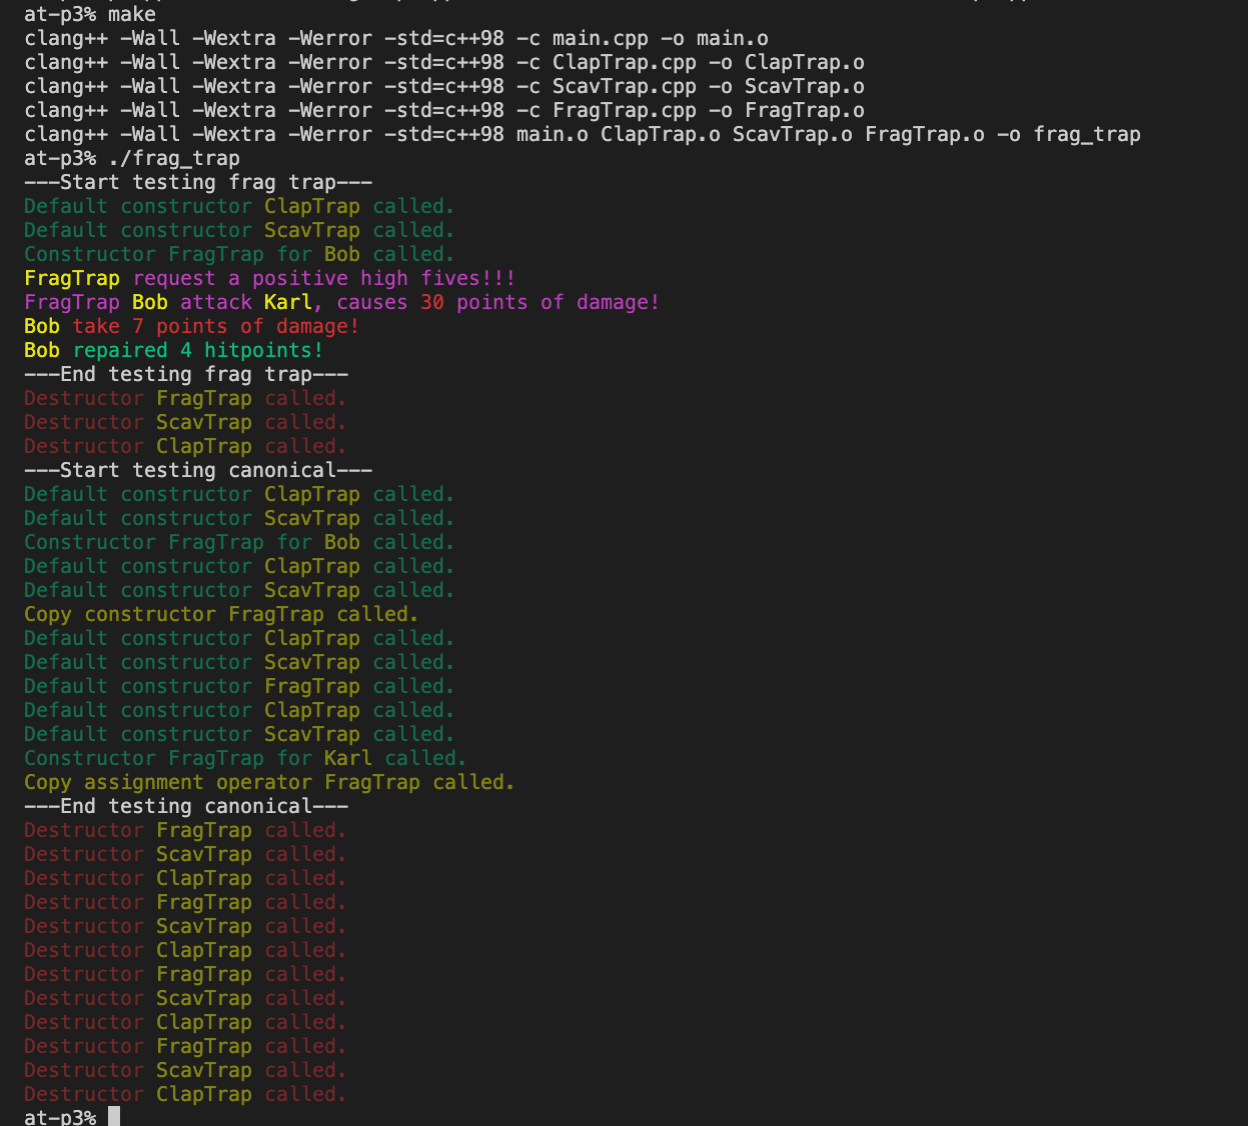
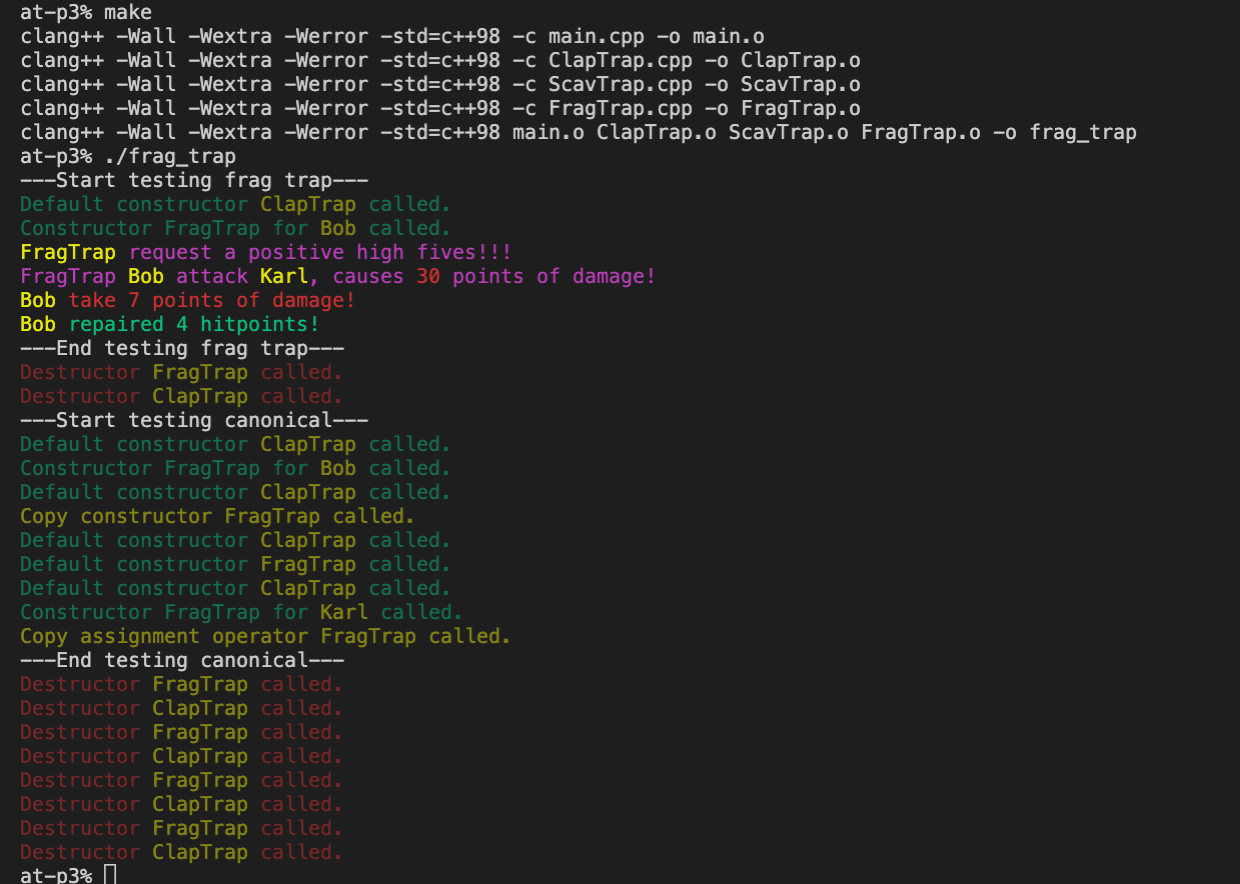
Fix

Changed region(s): [[0.0, 0.0, 0.9194, 1.0]]

diff --git a/Module_03/ex03/ClapTrap.cpp b/Module_03/ex03/ClapTrap.cpp
@@ -1,0 +1,119 @@
+#include "ClapTrap.hpp"
+
+void ClapTrap::setName(const std::string &name)
+{
+	ClapTrap::name_ = name;
+}
+
+void ClapTrap::setHp(int hp)
+{
+	ClapTrap::hp_ = hp;
+}
+
+void ClapTrap::setMp(int mp)
+{
+	ClapTrap::mp_ = mp;
+}
+
+void ClapTrap::setDamage(int damage)
+{
+	ClapTrap::damage_ = damage;
+}
+
+const std::string &ClapTrap::getName() const
+{
+	return name_;
+}
+
+int ClapTrap::getHp() const
+{
+	return hp_;
+}
+
+int ClapTrap::getMp() const
+{
+	return mp_;
+}
+
+int ClapTrap::getDamage() const
+{
+	return damage_;
+}
+
+ClapTrap::ClapTrap() : name_("No_name"), hp_(10), mp_(10), damage_(0)
+{
+	std::cout << DARK_GREEN "Default constructor " END_COLOR;
+	std::cout << DARK_YELLOW "ClapTrap " END_COLOR;
+	std::cout << DARK_GREEN "called." END_COLOR << std::endl;
+}
+
+ClapTrap::ClapTrap(std::string name) : name_(name), hp_(10), mp_(10), damage_(0)
+{
+	std::cout << DARK_GREEN "Constructor ClapTrap for " END_COLOR;
+	std::cout << DARK_YELLOW << this->name_ << END_COLOR;
+	std::cout << DARK_GREEN " called." END_COLOR << std::endl;
+}
+
+void ClapTrap::attack(const std::string &target)
+{
+	std::cout << PURPLE "ClapTrap " END_COLOR;
+	std::cout << YELLOW + this->name_ + END_COLOR PURPLE " attack ";
+	std::cout << YELLOW + target + END_COLOR PURPLE ", causes " + END_COLOR;
+	std::cout << RED << this->damage_ << END_COLOR PURPLE " points of damage!" END_COLOR << std::endl;
+}
+
+void ClapTrap::takeDamage(unsigned int amount)
+{
+	unsigned int prev_hp;
+
+	std::cout << YELLOW + this->name_ + END_COLOR;
+	std::cout << RED " take " << amount << " points of damage!" END_COLOR << std::endl;
+	prev_hp = this->hp_;
+	this->hp_ -= amount;
+	if (this->hp_ > prev_hp)
+		this->hp_ = 0;
+}
+
+void ClapTrap::beRepaired(unsigned int amount)
+{
+	unsigned int prev_hp;
+
+	std::cout << YELLOW + this->name_ + END_COLOR;
+	std::cout << GREEN " repaired " << amount << " hitpoints!" END_COLOR << std::endl;
+	prev_hp = this->hp_;
+	this->hp_ += amount;
+	if (this->hp_ < prev_hp)
+		this->hp_ = UINT_MAX;
+}
+
+ClapTrap::~ClapTrap()
+{
+	std::cout << DARK_RED "Destructor " END_COLOR;
+	std::cout << DARK_YELLOW "ClapTrap " END_COLOR;
+	std::cout << DARK_RED "called." END_COLOR << std::endl;
+}
+
+ClapTrap::ClapTrap(const ClapTrap &other)
+{
+	std::cout << DARK_YELLOW "Copy constructor " END_COLOR;
+	std::cout << DARK_YELLOW " ClapTrap " END_COLOR;
+	std::cout << DARK_YELLOW "called." END_COLOR << std::endl;
+	this->name_ = other.name_;
+	this->hp_ = other.hp_;
+	this->mp_ = other.mp_;
+	this->damage_ = other.damage_;
+}
+
+ClapTrap &ClapTrap::operator = (const ClapTrap &other)
+{
+	std::cout << DARK_YELLOW "Copy assignment operator" END_COLOR;
+	std::cout << DARK_YELLOW " ClapTrap " END_COLOR;
+	std::cout << DARK_YELLOW "called." END_COLOR << std::endl;
+	if (this == &other)
+		return *this;
+	this->name_ = other.name_;
+	this->hp_ = other.hp_;
+	this->mp_ = other.mp_;
+	this->damage_ = other.damage_;
+	return *this;
+}

diff --git a/Module_03/ex03/ScavTrap.cpp b/Module_03/ex03/ScavTrap.cpp
@@ -1,0 +1,71 @@
+#include "ScavTrap.hpp"
+
+ScavTrap::ScavTrap()
+{
+	std::cout << DARK_GREEN "Default constructor " END_COLOR;
+	std::cout << DARK_YELLOW"ScavTrap " END_COLOR;
+	std::cout << DARK_GREEN "called." END_COLOR << std::endl;
+	this->name_ = "";
+	this->hp_ = 100;
+	this->mp_ = 50;
+	this->damage_ = 20;
+}
+
+ScavTrap::ScavTrap(std::string name)
+{
+	this->name_ = name;
+	this->hp_ = 100;
+	this->mp_ = 50;
+	this->damage_ = 20;
+	std::cout << DARK_GREEN "Constructor ScavTrap for " END_COLOR;
+	std::cout << DARK_YELLOW << this->name_ << END_COLOR;
+	std::cout << DARK_GREEN " called." END_COLOR << std::endl;
+
+}
+
+ScavTrap::~ScavTrap()
+{
+	std::cout << DARK_RED "Destructor " END_COLOR;
+	std::cout << DARK_YELLOW "ScavTrap " END_COLOR;
+	std::cout << DARK_RED "called." END_COLOR << std::endl;
+}
+
+void ScavTrap::guardGate()
+{
+	std::cout << PURPLE "ScavTrap " END_COLOR;
+	std::cout << YELLOW << this->name_ << END_COLOR;
+	std::cout << PURPLE " is now in Gate keeper mode." END_COLOR << std::endl;
+}
+
+ScavTrap::ScavTrap(const ScavTrap &other)
+{
+	std::cout << DARK_YELLOW "Copy constructor " END_COLOR;
+	std::cout << DARK_YELLOW "ScavTrap " END_COLOR;
+	std::cout << DARK_YELLOW "called." END_COLOR << std::endl;
+	this->name_ = other.name_;
+	this->hp_ = other.hp_;
+	this->mp_ = other.mp_;
+	this->damage_ = other.damage_;
+}
+
+ScavTrap &ScavTrap::operator=(const ScavTrap &other)
+{
+	std::cout << DARK_YELLOW "Copy assignment operator" END_COLOR;
+	std::cout << DARK_YELLOW " ScavTrap " END_COLOR;
+	std::cout << DARK_YELLOW "called." END_COLOR << std::endl;
+	if (this == &other)
+		return *this;
+	this->name_ = other.name_;
+	this->hp_ = other.hp_;
+	this->mp_ = other.mp_;
+	this->damage_ = other.damage_;
+	return *this;
+}
+
+void ScavTrap::attack(const std::string &target)
+{
+	std::cout << PURPLE "ScavTrap " END_COLOR;
+	std::cout << YELLOW + this->name_ + END_COLOR PURPLE " attack ";
+	std::cout << YELLOW + target + END_COLOR PURPLE ", causes " + END_COLOR;
+	std::cout << RED << this->damage_ << END_COLOR PURPLE " points of damage!" END_COLOR << std::endl;
+}

diff --git a/Module_03/ex03/FragTrap.cpp b/Module_03/ex03/FragTrap.cpp
@@ -1,0 +1,70 @@
+#include "FragTrap.hpp"
+
+FragTrap::FragTrap()
+{
+	std::cout << DARK_GREEN "Default constructor " END_COLOR;
+	std::cout << DARK_YELLOW"FragTrap " END_COLOR;
+	std::cout << DARK_GREEN "called." END_COLOR << std::endl;
+	this->name_ = "";
+	this->hp_ = 100;
+	this->mp_ = 100;
+	this->damage_ = 30;
+}
+
+FragTrap::FragTrap(std::string name)
+{
+	this->name_ = name;
+	this->hp_ = 100;
+	this->mp_ = 100;
+	this->damage_ = 30;
+	std::cout << DARK_GREEN "Constructor FragTrap for " END_COLOR;
+	std::cout << DARK_YELLOW << this->name_ << END_COLOR;
+	std::cout << DARK_GREEN " called." END_COLOR << std::endl;
+
+}
+
+FragTrap::FragTrap(const FragTrap &other)
+{
+	std::cout << DARK_YELLOW "Copy constructor " END_COLOR;
+	std::cout << DARK_YELLOW "FragTrap " END_COLOR;
+	std::cout << DARK_YELLOW "called." END_COLOR << std::endl;
+	this->name_ = other.name_;
+	this->hp_ = other.hp_;
+	this->mp_ = other.mp_;
+	this->damage_ = other.damage_;
+}
+
+FragTrap::~FragTrap()
+{
+	std::cout << DARK_RED "Destructor " END_COLOR;
+	std::cout << DARK_YELLOW "FragTrap " END_COLOR;
+	std::cout << DARK_RED "called." END_COLOR << std::endl;
+}
+
+FragTrap &FragTrap::operator=(const FragTrap &other)
+{
+	std::cout << DARK_YELLOW "Copy assignment operator " END_COLOR;
+	std::cout << DARK_YELLOW "FragTrap " END_COLOR;
+	std::cout << DARK_YELLOW "called." END_COLOR << std::endl;
+	if (this == &other)
+		return *this;
+	this->name_ = other.name_;
+	this->hp_ = other.hp_;
+	this->mp_ = other.mp_;
+	this->damage_ = other.damage_;
+	return *this;
+}
+
+void FragTrap::attack(const std::string &target)
+{
+	std::cout << PURPLE "FragTrap " END_COLOR;
+	std::cout << YELLOW + this->name_ + END_COLOR PURPLE " attack ";
+	std::cout << YELLOW + target + END_COLOR PURPLE ", causes " + END_COLOR;
+	std::cout << RED << this->damage_ << END_COLOR PURPLE " points of damage!" END_COLOR << std::endl;
+}
+
+void FragTrap::highFivesGuys(void)
+{
+	std::cout << YELLOW "FragTrap " END_COLOR;
+	std::cout << PURPLE "request a positive high fives!!!" END_COLOR << std::endl;
+}

diff --git a/Module_03/ex03/ClapTrap.hpp b/Module_03/ex03/ClapTrap.hpp
@@ -1,5 +1,5 @@
-#ifndef EX02_CLAPTRAP_HPP
-# define EX02_CLAPTRAP_HPP
+#ifndef EX03_CLAPTRAP_HPP
+# define EX03_CLAPTRAP_HPP
 # define YELLOW "\033[0;33m"
 # define PURPLE "\033[0;35m"
 # define RED "\033[0;31m"
@@ -21,7 +21,7 @@ protected:
 public:
 	ClapTrap();
 	ClapTrap(std::string name);
-	~ClapTrap();
+	virtual ~ClapTrap();
 
 	ClapTrap(const ClapTrap &other);
 
@@ -36,9 +36,10 @@ public:
 	int getMp() const;
 	int getDamage() const;
 
-	virtual void attack(const std::string& target);
+	void attack(const std::string& target);
 	void takeDamage(unsigned int amount);
 	void beRepaired(unsigned int amount);
 };
+
 
 #endif

diff --git a/Module_03/ex03/FragTrap.hpp b/Module_03/ex03/FragTrap.hpp
@@ -1,17 +1,16 @@
-#ifndef EX02_FRAGTRAP_HPP
-# define EX02_FRAGTRAP_HPP
+#ifndef EX03_FRAGTRAP_HPP
+# define EX03_FRAGTRAP_HPP
 # include "ScavTrap.hpp"
 
-class FragTrap : public ClapTrap
+class FragTrap : public ScavTrap
 {
 public:
 	FragTrap();
 	FragTrap(std::string name);
 	FragTrap(const FragTrap& other);
-	~FragTrap();
+	virtual ~FragTrap();
 	FragTrap& operator=(const FragTrap& other);
 	void attack(const std::string& target);
 	void highFivesGuys(void);
 };
-
 #endif

diff --git a/Module_03/ex03/ScavTrap.hpp b/Module_03/ex03/ScavTrap.hpp
@@ -1,0 +1,21 @@
+#ifndef EX03_SCAVTRAP_HPP
+# define EX03_SCAVTRAP_HPP
+# include "ClapTrap.hpp"
+# include <iostream>
+
+class ScavTrap : public ClapTrap
+{
+public:
+	ScavTrap();
+	ScavTrap(std::string name);
+	ScavTrap(const ScavTrap& other);
+	virtual ~ScavTrap();
+	ScavTrap& operator=(const ScavTrap& other);
+//	void attack(const std::string& target) override;
+	void attack(const std::string& target);
+
+private:
+	void guardGate();
+};
+
+#endif

diff --git a/Module_03/ex03/main.cpp b/Module_03/ex03/main.cpp
@@ -1,0 +1,10 @@
+#include "FragTrap.hpp"
+
+int main()
+{
+	ScavTrap a("Sam");
+	ClapTrap *b = &a;
+	b->attack("Bob");
+
+	return 0;
+}
